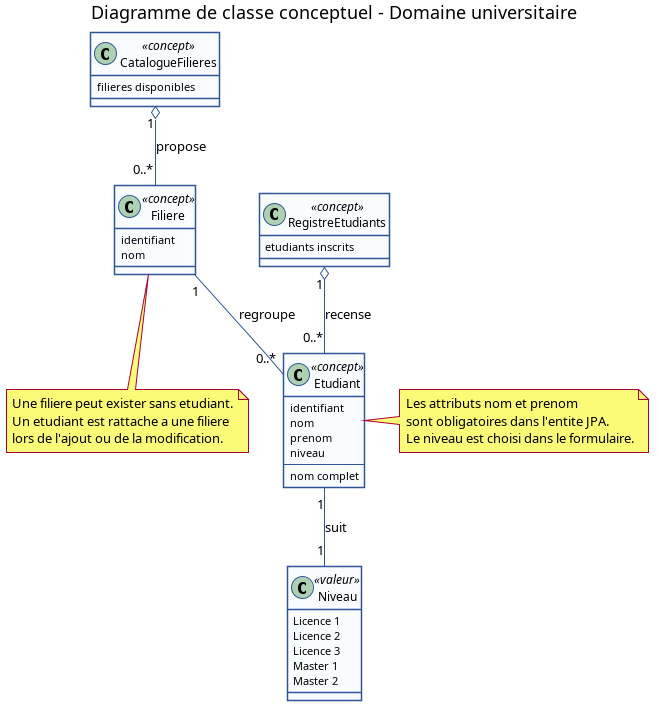
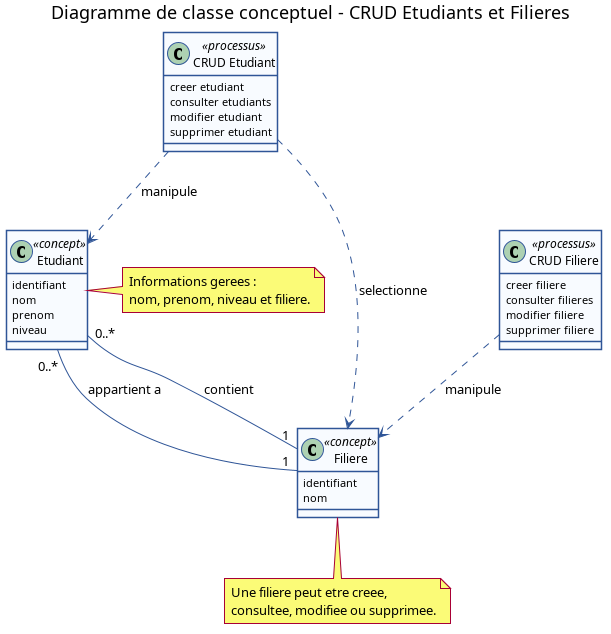
Focus UML diagrams on student and filiere CRUD

Changed region(s): [[0.0, 0.0, 0.9951, 0.989], [0.5908, 0.4495, 0.7152, 0.4795]]

diff --git a/docs/uml/README.md b/docs/uml/README.md
@@ -1,14 +1,18 @@
 # Diagrammes UML - App_Etudiants
 
 Ce dossier contient les diagrammes UML derives du projet Java `App_Etudiants`.
+Le perimetre presente uniquement deux modules :
+
+- gestion des etudiants en CRUD ;
+- gestion des filieres en CRUD.
 
 ## Fichiers source PlantUML
 
-- `use-case.puml` : diagramme de cas d'utilisation detaille.
-- `classe-conceptuel.puml` : diagramme de classe conceptuel du domaine.
-- `classe-analyse.puml` : diagramme de classe d'analyse avec presentation, controleurs, entites, repositories et JPA.
-- `sequence-conceptuel.puml` : sequence conceptuelle du cas "creer un etudiant".
-- `sequence-analyse.puml` : sequence d'analyse du cas "ajouter un etudiant" dans l'architecture Servlet/JPA.
+- `use-case.puml` : cas d'utilisation CRUD des etudiants et des filieres.
+- `classe-conceptuel.puml` : concepts metier Etudiant, Filiere et Niveau.
+- `classe-analyse.puml` : presentation, controleurs, entites, repositories et base MySQL limites au CRUD.
+- `sequence-conceptuel.puml` : sequence conceptuelle d'un cycle CRUD.
+- `sequence-analyse.puml` : sequence d'analyse du CRUD etudiant dans l'architecture Servlet/JPA.
 
 ## Images generees
 
